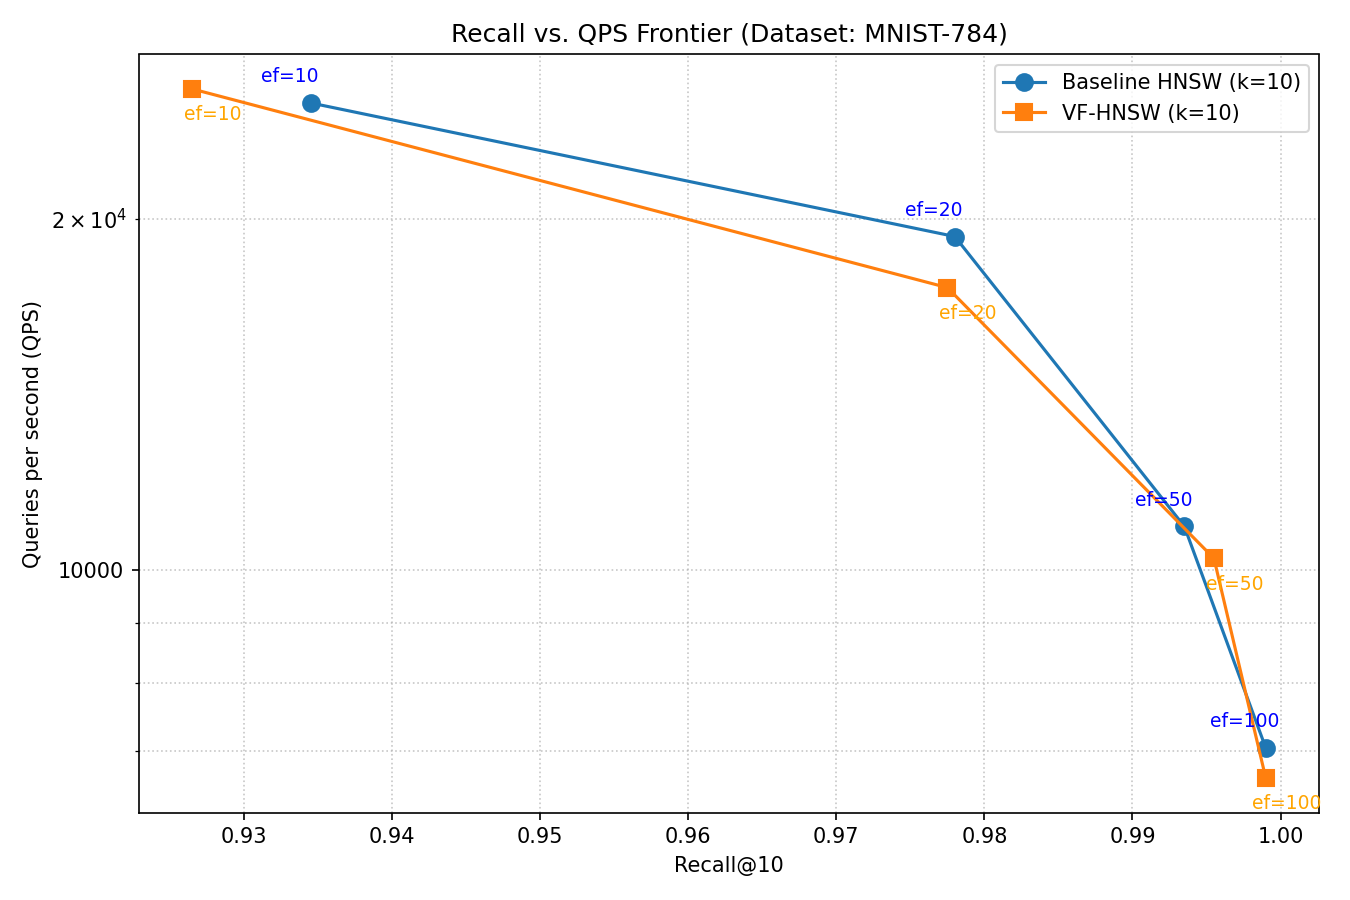
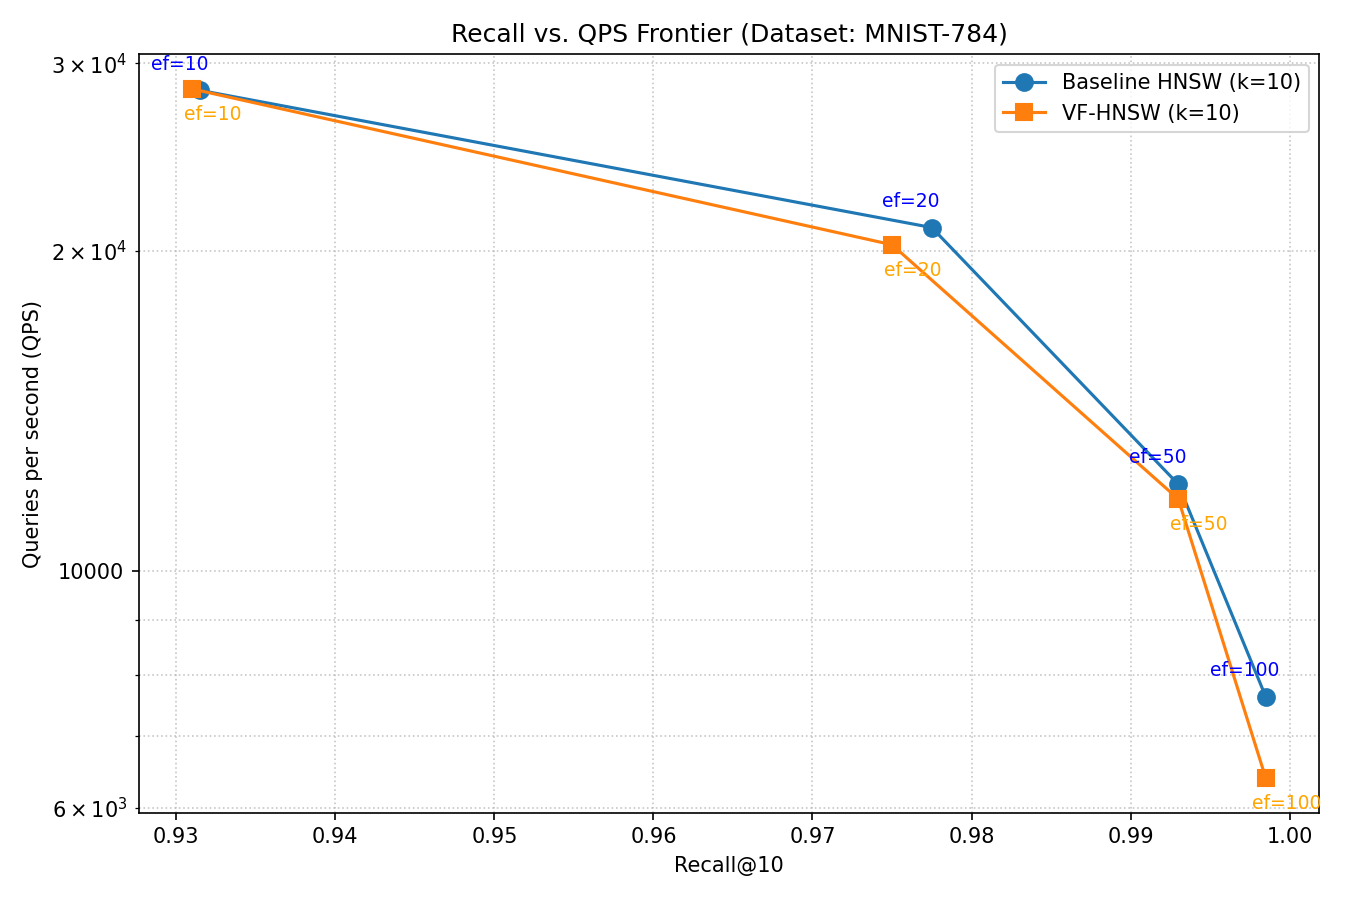
chore: update warmups/iterations for standardization

diff --git a/milestones/M1.md b/milestones/M1.md
@@ -7,7 +7,7 @@ Dim: 784, M: 16, ef_construction: 200
 Sweep ef_values: [10, 20, 50, 100], Threads: 8, K: 10
 
 Building index...
-Build time: 16.79s (3574 vectors/s)
+Build time: 16.63s (3608 vectors/s)
 
 Computing exact ground truth on 200 queries (brute force)...
 
@@ -15,10 +15,10 @@ Benchmarking Search (10000 queries)...
 
 Summary
     ef   base_qps     vf_qps   time_ratio  overlap  base_r@10    vf_r@10
-    10      25135      25838       0.973x   0.9740     0.9345     0.9265
-    20      19309      17456       1.106x   0.9948     0.9780     0.9775
-    50      10897      10230       1.065x   0.9994     0.9935     0.9955
-   100       7036       6629       1.061x   0.9998     0.9990     0.9990
+    10      28298      28384       0.997x   0.9741     0.9315     0.9310
+    20      21035      20267       1.038x   0.9949     0.9775     0.9750
+    50      12074      11694       1.032x   0.9996     0.9930     0.9930
+   100       7625       6396       1.192x   0.9999     0.9985     0.9985
 
 [Success] Recall vs QPS chart saved to: charts/recall_qps_k10.png
 ```

diff --git a/CUSTOM_TEST.md b/CUSTOM_TEST.md
@@ -8,10 +8,8 @@ cd build && cmake .. && cd .. && uv pip install -e .
 uv run tests/python/customtest.py \
 --threads 8 \
 --ef_values 10 20 50 100 \
---iterations 1 \
---warmup 0 \
+--iterations 5 \
+--warmup 1 \
 --recall_queries 200 \
 --data_path data/mnist-784-euclidean.hdf5
 ```
-
-
